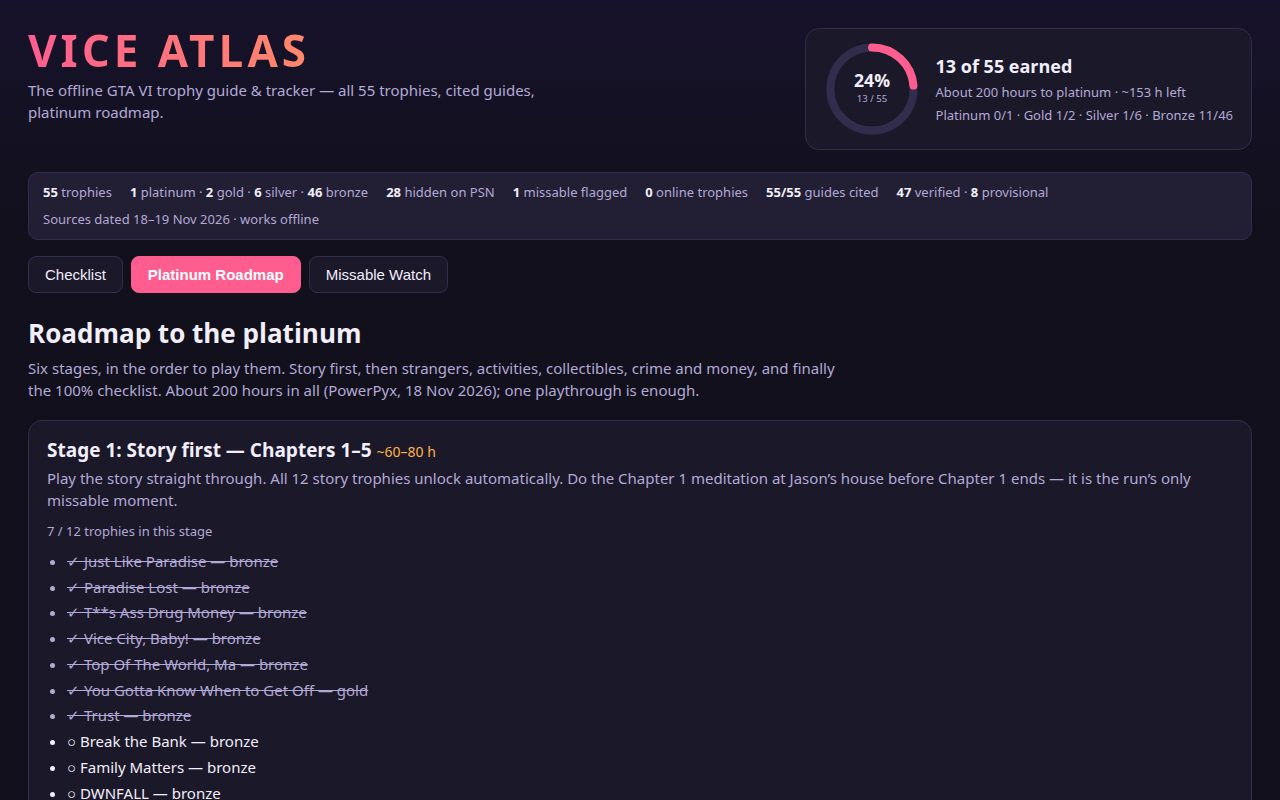
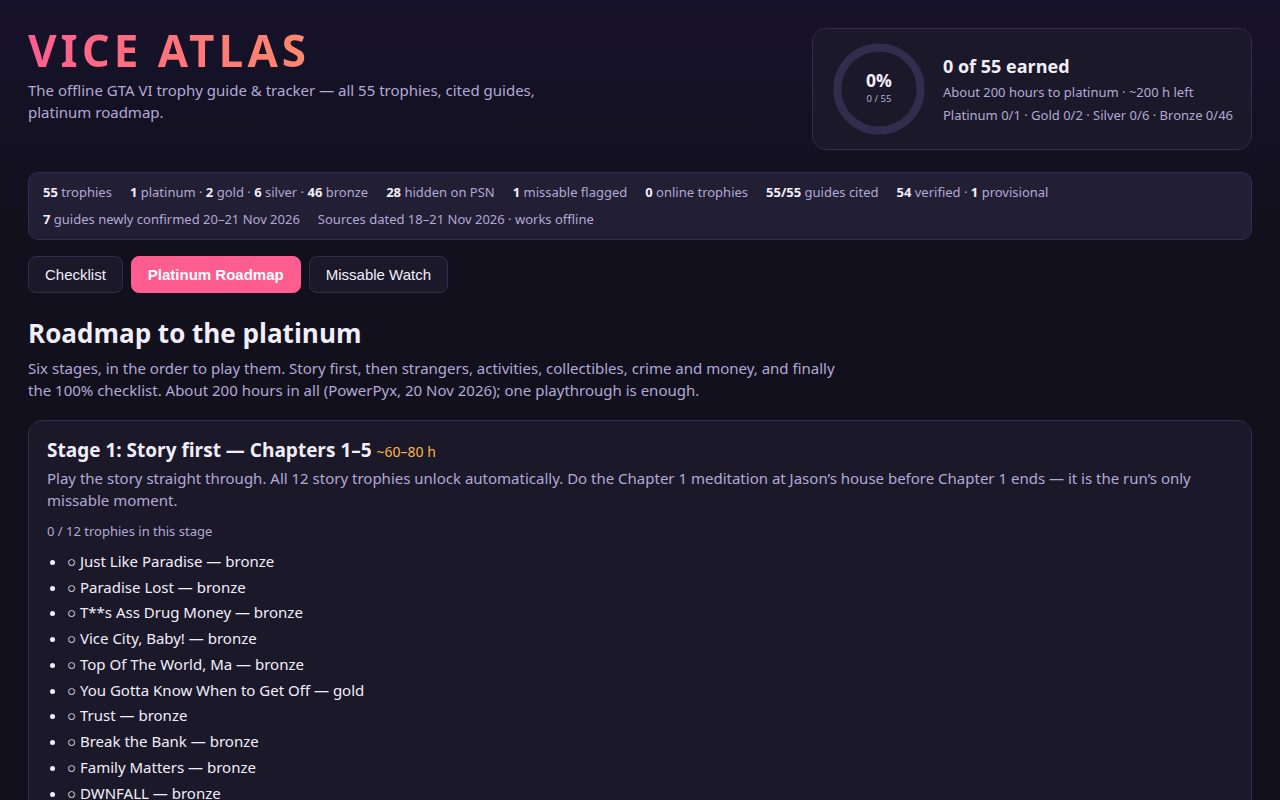
Vice Atlas v2 — 7 of 8 provisional guides confirmed from launch-week play (54 verified, 1 provisional)
- Challenging Tank, In The Beginning…, Capital Offense, Personal Best,
  Actions Speak Louder, The Truth Is Out There, Ten Pin: methods now
  confirmed by named, dated guides (PowerPyx 20 Nov 2026, DamnModz,
  GameSpot, The Games Wiki, GTA Vibes, games.gg), most backed by 2+
  independent guides; Ten Pin's exact count labelled single-source.
- Bad Luck, I Guess stays provisional (still unconfirmed anywhere) with
  the best published lead (Payday Loans store, Lucia's prologue).
- Audit strip now reads 54 verified / 1 provisional, 7 newly confirmed
  20-21 Nov 2026; sources dated 18-21 Nov 2026; footer updated.
- Screenshots re-rendered (4x 1280x800, no console errors, no network).

diff --git a/app/index.html b/app/index.html
@@ -34,8 +34,9 @@
   <span><strong>1</strong> missable flagged</span>
   <span><strong>0</strong> online trophies</span>
   <span><strong>55/55</strong> guides cited</span>
-  <span><strong>47</strong> verified · <strong>8</strong> provisional</span>
-  <span>Sources dated 18–19 Nov 2026 · works offline</span>
+  <span><strong>54</strong> verified · <strong>1</strong> provisional</span>
+  <span><strong>7</strong> guides newly confirmed 20–21 Nov 2026</span>
+  <span>Sources dated 18–21 Nov 2026 · works offline</span>
 </section>
 
 <nav class="views" aria-label="Views">
@@ -100,7 +101,7 @@
 
   <section id="view-roadmap" class="view" hidden>
     <h2>Roadmap to the platinum</h2>
-    <p class="section-intro">Six stages, in the order to play them. Story first, then strangers, activities, collectibles, crime and money, and finally the 100% checklist. About 200 hours in all (PowerPyx, 18 Nov 2026); one playthrough is enough.</p>
+    <p class="section-intro">Six stages, in the order to play them. Story first, then strangers, activities, collectibles, crime and money, and finally the 100% checklist. About 200 hours in all (PowerPyx, 20 Nov 2026); one playthrough is enough.</p>
     <div id="roadmap"></div>
   </section>
 
@@ -120,8 +121,8 @@
 </main>
 
 <footer>
-  <p>Vice Atlas is an independent, open-source guide. Trophy names, descriptions and grades are PlayStation's published words (Exophase / PSNProfiles, Nov 2026). Guides are written in our own words and cite their sources — PowerPyx's GTA 6 Trophy Guide &amp; Roadmap (18 Nov 2026), GTABase and PSNProfiles. No Rockstar artwork, no game screenshots, no network requests: this page works fully offline.</p>
-  <p class="footer-meta">55 trophies · 1 platinum · 2 gold · 6 silver · 46 bronze · 28 hidden · 1 missable · 0 online · updated 19 Nov 2026</p>
+  <p>Vice Atlas is an independent, open-source guide. Trophy names, descriptions and grades are PlayStation's published words (Exophase / PSNProfiles, Nov 2026). Guides are written in our own words and cite their sources — PowerPyx's GTA 6 Trophy Guide &amp; Roadmap (20 Nov 2026), DamnModz, GameSpot, The Games Wiki, GTABase and PSNProfiles. No Rockstar artwork, no game screenshots, no network requests: this page works fully offline.</p>
+  <p class="footer-meta">55 trophies · 1 platinum · 2 gold · 6 silver · 46 bronze · 28 hidden · 1 missable · 0 online · updated 21 Nov 2026</p>
 </footer>
 <script type="module" src="app.js"></script>
 </body>

diff --git a/app/app.js b/app/app.js
@@ -145,7 +145,7 @@ function renderDetail(t) {
   verdict.className = 'verdict ' + (t.verified ? 'verified' : 'provisional');
   verdict.textContent = t.verified
     ? '✓ Method confirmed by the cited guide(s).'
-    : '⚠ Provisional: no published guide had pinned this method down by 19 Nov 2026 — the guide follows the official description only.';
+    : '⚠ Provisional: no published guide had pinned this method down by 21 Nov 2026 — the guide follows the official description and the best published lead only.';
   detailEl.append(title, desc, badges, sourceLineEl, guideHeading, guideText, sourcesHeading, list, verdict);
 }
 
@@ -269,12 +269,12 @@ function renderMissables() {
     const guide = document.createElement('p');
     guide.textContent = t.guide;
     const src = document.createElement('p');
-    src.textContent = 'Sources: PowerPyx — GTA 6 Trophy Guide & Roadmap (18 Nov 2026); GTABase — GTA 6 trophy guide (18 Nov 2026).';
+    src.textContent = 'Sources: PowerPyx — GTA 6 Trophy Guide & Roadmap (20 Nov 2026); GTABase — GTA 6 trophy guide (18 Nov 2026).';
     card.append(h, desc, guide, src);
     host.append(card);
   }
   const safe = document.createElement('p');
-  safe.textContent = 'All 12 story trophies and the other 42 trophies are confirmed unmissable — they unlock automatically or stay available after the story (PowerPyx, 18 Nov 2026).';
+  safe.textContent = 'All 12 story trophies and the other 42 trophies are confirmed unmissable — they unlock automatically or stay available after the story (PowerPyx, 20 Nov 2026).';
   host.append(safe);
 }
 

diff --git a/main.ts b/main.ts
@@ -12,10 +12,20 @@
 //
 // Screenshots (screenshots/, first by name is the cover; shots.json says which
 // views each was taken of): 1-checklist.jpg — the checklist with the missable
-// trophy's guide and sources open in the detail pane; 2-roadmap.jpg — the six
-// stage platinum roadmap; 3-missables.jpg — the missable watch list with the
-// spoiler setting and progress/export controls; 4-collectibles.jpg — the
-// collectibles filter at work with a second trophy's guide open.
+// trophy's guide and sources open in the detail pane, and the v2 audit strip
+// (54 verified, 1 provisional, 7 guides newly confirmed 20–21 Nov 2026);
+// 2-roadmap.jpg — the six stage platinum roadmap; 3-missables.jpg — the missable
+// watch list with the spoiler setting and progress/export controls;
+// 4-collectibles.jpg — the collectibles filter at work with a second trophy's
+// guide open.
+//
+// v2 (21 Nov 2026): seven of the eight v1 PROVISIONAL guides are now confirmed
+// from launch-week play — Challenging Tank, In The Beginning…, Capital Offense,
+// Personal Best, Actions Speak Louder, The Truth Is Out There and Ten Pin —
+// each with named, dated sources, most backed by two or more independent guides.
+// Only Bad Luck, I Guess stays provisional (still unconfirmed anywhere; the
+// guide now carries the best published lead). The audit strip, footer and the
+// data file's source index were updated to match.
 //
 // Serve it locally with `node serve.ts`, then open http://localhost:8080.
 // Outside the grader's container, MAKEFUN_OUTPUT_DIR stands in for /output:
